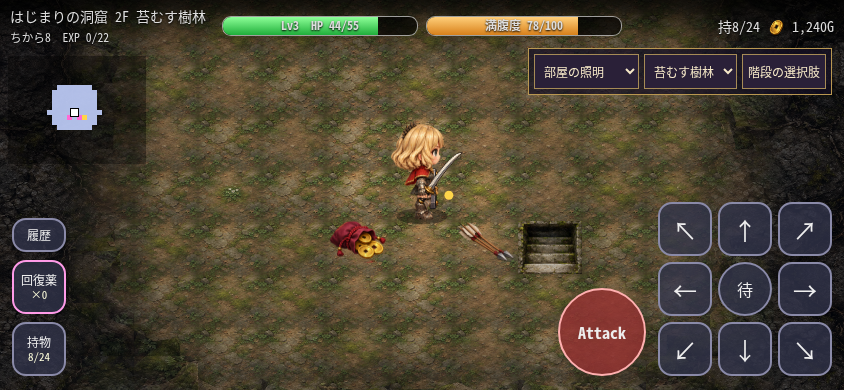
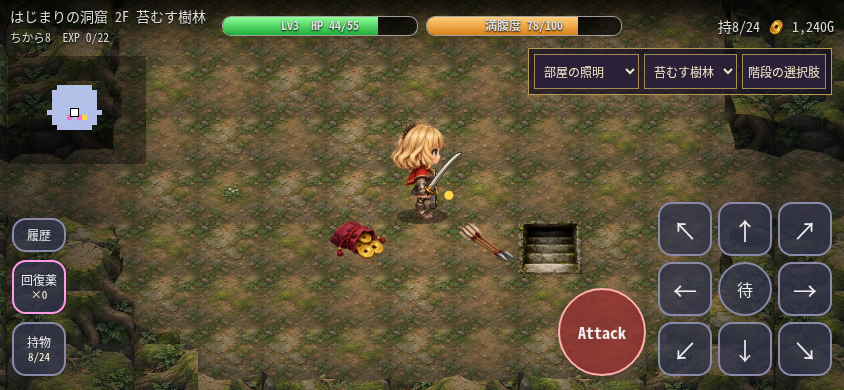
Keep unvisited rooms and corridors visible in shadow, raise walls and fix public item sprites

diff --git a/assets/cave-terrain.js b/assets/cave-terrain.js
@@ -6,7 +6,7 @@
  const keys=['floor0','floor1','floor2','floor3','wallT0','wallT1','wallF0','wallF1','stairs'];
  state.load=async function(redraw){try{await Promise.all(ids.flatMap(id=>keys.map(key=>new Promise((resolve,reject)=>{const im=new Image();im.crossOrigin='anonymous';im.onload=()=>{images[id+':'+key]=im;resolve();};im.onerror=()=>reject(Error(id+'/'+key));im.src='assets/dungeon/locations-v1/'+id+'/'+key+'.webp';}))));state.ready=true;redraw();}catch(e){state.error=e.message;console.error('ロケーション画像読込失敗',e);redraw();}};
  state.topology=function(map,x,y){const f=(xx,yy)=>map[yy]?.[xx]!==undefined&&map[yy][xx]!==0;let edges=0,diagonals=0;[[0,-1],[1,0],[0,1],[-1,0]].forEach(([dx,dy],i)=>{if(f(x+dx,y+dy))edges|=1<<i;});[[-1,-1],[1,-1],[1,1],[-1,1]].forEach(([dx,dy],i)=>{if(f(x+dx,y+dy))diagonals|=1<<i;});return {edges,diagonals};};
- state.rise=(map,x,y,size)=>size*((state.topology(map,x,y).edges&1)?.10:.36);
+ state.rise=(map,x,y,size)=>size*((state.topology(map,x,y).edges&1)?.22:.55);
  function canvas(w=SIZE,h=SIZE){const c=document.createElement('canvas');c.width=w;c.height=h;return c;}
  function art(id,key){return images[id+':'+key];}
  function patch(id,key){const k=id+':patch:'+key;if(cache.has(k))return cache.get(k);const c=canvas(),g=c.getContext('2d');g.drawImage(art(id,key),0,0,SIZE,SIZE);g.globalCompositeOperation='destination-in';const r=g.createRadialGradient(64,64,18,64,64,62);r.addColorStop(0,'#000');r.addColorStop(1,'#0000');g.fillStyle=r;g.fillRect(0,0,SIZE,SIZE);cache.set(k,c);return c;}
@@ -42,27 +42,30 @@
   const {edges,diagonals}=state.topology(map,x,y);
   // Neighbour-owned radii depend on world coordinates, not just topology.
   const k=[id,x,y,seed,edges,diagonals,variant].join(':');if(cache.has(k))return cache.get(k);
-  const rise=(edges&1)?13:46,p=105,c=canvas(128,160),g=c.getContext('2d');
+  const rise=(edges&1)?28:70,p=105,c=canvas(128,184),g=c.getContext('2d');
   const footprint=state.footprint(map,x,y,seed,id),top=canvas(128,p),tg=top.getContext('2d');
   tg.drawImage(footprint,0,0,128,p);
   // Extrude the actual scalloped footprint. A rectangular facade would fill
   // the negative space back in and undo the partial-cell silhouette.
-  const face=canvas(128,160),fg=face.getContext('2d');
-  for(let z=rise;z>=0;z--)fg.drawImage(top,0,46-z);
-  fg.globalCompositeOperation='destination-out';fg.drawImage(top,0,46-rise);
+  const face=canvas(128,184),fg=face.getContext('2d');
+  for(let z=rise;z>=0;z--)fg.drawImage(top,0,70-z);
+  fg.globalCompositeOperation='destination-out';fg.drawImage(top,0,70-rise);
   fg.globalCompositeOperation='source-in';
-  fg.drawImage(art(id,'wallF'+variant),phaseX*128,0,128,256,0,0,128,160);
+  fg.drawImage(art(id,'wallF'+variant),phaseX*128,0,128,256,0,0,128,184);
+  // Darker vertical faces distinguish raised rock from the walkable floor.
+  fg.globalCompositeOperation='source-atop';
+  const shadow=fg.createLinearGradient(0,0,0,184);shadow.addColorStop(0,'rgba(0,0,0,.12)');shadow.addColorStop(1,'rgba(0,0,0,.55)');fg.fillStyle=shadow;fg.fillRect(0,0,128,184);
   g.drawImage(face,0,0);
   const cap=canvas(128,p),cg=cap.getContext('2d');
   cg.drawImage(art(id,'wallT'+variant),phaseX*128,phaseY*64,128,128,0,0,128,p);
   cg.globalCompositeOperation='destination-in';cg.drawImage(top,0,0);
-  g.drawImage(cap,0,46-rise);
+  g.drawImage(cap,0,70-rise);
   if(cache.size>512)cache.clear();cache.set(k,c);return c;
  }
  state.draw=function(g,key,px,py,size,{map,x=0,y=0,theme,seed=0}){if(!state.ready)return false;const id=ids.includes(theme?.id)?theme.id:'limestone',h=size*PITCH;g.imageSmoothingEnabled=true;
   if(key.startsWith('floor')){const hash=(((x*73856093)^(y*19349663)^seed)>>>0),v=hash%31===0?3:hash%3;ground(g,px,py,size,h,id,x,y,v);return true;}
   if(key==='stairs'){ground(g,px,py,size,h,id,x,y,1);g.drawImage(patch(id,'stairs'),px,py,size,h);return true;}
-  if(key!=='wallF'&&key!=='wallT')return false;const {edges,diagonals}=state.topology(map,x,y);ground(g,px,py,size,h,id,x,y,1);const v=(((x>>1)*37^(y>>1)*71^seed)>>>0)&1;g.drawImage(bank(id,map,x,y,seed,v,x&1,y&1),px,py-size*46/128,size,size*160/128);return true;
+  if(key!=='wallF'&&key!=='wallT')return false;const {edges,diagonals}=state.topology(map,x,y);ground(g,px,py,size,h,id,x,y,1);const v=(((x>>1)*37^(y>>1)*71^seed)>>>0)&1;g.drawImage(bank(id,map,x,y,seed,v,x&1,y&1),px,py-size*70/128,size,size*184/128);return true;
  };
  root.CaveTerrain=state;
 })(typeof window==='undefined'?globalThis:window);

diff --git a/assets/dungeon-experience.js b/assets/dungeon-experience.js
@@ -12,8 +12,7 @@
  state.trap=function(g,kind,x,y,size,pitch){const im=state.images['trap-'+kind];if(!im)return false;g.imageSmoothingEnabled=true;g.drawImage(im,x+size*.03,y-pitch*.10,size*.94,pitch*1.04);return true;};
  state.shop=function(g,x,y,size,pitch){const im=state.images.shop;if(!im)return false;g.imageSmoothingEnabled=true;g.drawImage(im,x-size*.10,y-pitch*.65,size*1.2,size*1.2);return true;};
  function layer(name,w,h){let c=state.layers[name];if(!c)c=state.layers[name]=document.createElement('canvas');if(c.width!==w||c.height!==h){c.width=w;c.height=h;}const g=c.getContext('2d');g.clearRect(0,0,w,h);g.globalCompositeOperation='source-over';g.globalAlpha=1;g.filter='none';return [c,g];}
- // The ceiling is material, not an opaque black unknown-cell rectangle. Draw it
- // over hidden routes; illumination reveals the real floor through a soft mask.
+ // Terrain remains visible under ambient shadow outside the soft local light.
  state.fog=function(g,{width,height,size,pitch,camX,camY,player,rooms,roomIndex,roomGrid,map,seen,theme,terrain,revision=0,seed=0}){
   const cacheKey=[width,height,size,pitch,camX,camY,player.vx,player.vy,roomIndex,player.st?.blind>0,theme,state.ready,revision,seed].join(':');
   if(state.fogKey===cacheKey){g.drawImage(state.layers.ceiling,0,0);g.drawImage(state.layers.shade,0,0);return;}
@@ -31,10 +30,11 @@
    }
   }
   cg.fillStyle='rgba(8,11,18,.18)';cg.fillRect(0,0,width,height);
-  // Previously explored routes remain a dim recollection, with soft boundaries.
-  rg.filter='blur('+Math.max(3,size*.16)+'px)';rg.fillStyle='rgba(255,255,255,.32)';
-  for(let y=Math.max(0,y0);y<Math.min(seen.length,y1+1);y++)for(let x=Math.max(0,x0);x<Math.min(seen[y].length,x1+1);x++)if(seen[y][x])rg.fillRect(camX+x*size,camY+y*pitch,size+1,pitch+1);
-  rg.filter='none';
+  // Actual room/corridor geometry is already rendered, even when unvisited.
+  // Ceiling material fills only the area beyond the map; never cover its floors.
+  cg.globalCompositeOperation='destination-out';cg.fillStyle='#fff';
+  cg.fillRect(camX,camY-size,map[0].length*size,map.length*pitch+size);
+  cg.globalCompositeOperation='source-over';
   const blind=player.st?.blind>0;
   if(roomIndex>=0&&!blind){
    const r=rooms[roomIndex];lg.filter='blur('+Math.max(12,size*.58)+'px)';lg.fillStyle='#fff';
@@ -44,8 +44,8 @@
   }
   const px=camX+(player.vx+.5)*size,py=camY+(player.vy+.6)*pitch,radius=size*(blind?.70:2.05);
   const glow=lg.createRadialGradient(px,py,size*.30,px,py,radius);glow.addColorStop(0,'#fff');glow.addColorStop(.40,'rgba(255,255,255,.95)');glow.addColorStop(.72,'rgba(255,255,255,.5)');glow.addColorStop(1,'rgba(255,255,255,0)');lg.fillStyle=glow;lg.fillRect(0,0,width,height);
-  rg.drawImage(light,0,0);cg.globalCompositeOperation='destination-out';cg.drawImage(reveal,0,0);cg.globalCompositeOperation='source-over';g.drawImage(ceiling,0,0);
-  sg.fillStyle='rgba(2,5,12,.62)';sg.fillRect(0,0,width,height);sg.globalCompositeOperation='destination-out';sg.drawImage(light,0,0);sg.globalCompositeOperation='source-over';g.drawImage(shade,0,0);
+  g.drawImage(ceiling,0,0);
+  sg.fillStyle='rgba(2,5,12,.52)';sg.fillRect(0,0,width,height);sg.globalCompositeOperation='destination-out';sg.drawImage(light,0,0);sg.globalCompositeOperation='source-over';g.drawImage(shade,0,0);
  };
  root.DungeonExperience=state;
 })(typeof window==='undefined'?globalThis:window);

diff --git a/fushigi-experience-v1/review.html b/fushigi-experience-v1/review.html
@@ -828,6 +828,7 @@ function keyOut(im) {
 }
 function loadSprite(key, src) {
   const im = new Image();
+  im.crossOrigin = 'anonymous';
   im.onload = () => { try { SPRITES[key] = keyOut(im); kick(); } catch (e) { console.warn('画像を処理できませんでした:', key, e); } };
   im.onerror = () => {};
   im.src = src;

diff --git a/index.html b/index.html
@@ -827,6 +827,7 @@ function keyOut(im) {
 }
 function loadSprite(key, src) {
   const im = new Image();
+  im.crossOrigin = 'anonymous';
   im.onload = () => { try { SPRITES[key] = keyOut(im); kick(); } catch (e) { console.warn('画像を処理できませんでした:', key, e); } };
   im.onerror = () => {};
   im.src = src;

diff --git a/fushigi-experience-v1/check.py b/fushigi-experience-v1/check.py
@@ -20,14 +20,11 @@ with sync_playwright() as p:
    const alpha=(xx,yy)=>g.getImageData(Math.round(xx),Math.round(yy),1,1).data[3];
    const center=alpha(x,y),axis=alpha(x+r*.85,y),corner=alpha(x+r*.85,y+r*.85);
    if(!(center>240&&axis>0&&axis<200&&corner===0))throw Error('circular feather failed '+[center,axis,corner]);
-   const cg=DungeonExperience.layers.ceiling.getContext('2d'),data=cg.getImageData(2,2,Math.min(40,innerWidth-2),40).data;let sum=0,min=255,max=0;
-   for(let i=0;i<data.length;i+=4){const v=(data[i]+data[i+1]+data[i+2])/3;sum+=v;min=Math.min(min,v);max=Math.max(max,v);}
-   if(!(sum/(data.length/4)>6&&max-min>5))throw Error('ceiling must be textured not black');
-   return {centerAlpha:center,edgeAlpha:axis,diagonalAlpha:corner,ceilingMean:sum/(data.length/4),ceilingRange:max-min};
+   return {centerAlpha:center,edgeAlpha:axis,diagonalAlpha:corner};
   }''')
-  # A hidden floor must be concealed by opaque ceiling, not reveal its route.
-  hidden=page.evaluate('''()=>{const tx=player.x+Math.floor(innerWidth/2/TS)-1,ty=player.y;const px=innerWidth/2+(tx-player.x)*TS,py=focusY();const read=()=>Array.from(ctx.getImageData(Math.round(px),Math.round(py),3,3).data);draw();const a=read();map[ty][tx]=map[ty][tx]===WALL?FLOOR:WALL;draw();const z=read();return a.every((v,i)=>v===z[i]);}''')
-  assert hidden,'unknown floor leaked through ceiling'
+  # Unvisited terrain remains geometrically legible under ambient shadow.
+  hidden=page.evaluate('''()=>{const tx=player.x+Math.floor(innerWidth/2/TS)-1,ty=player.y;const px=innerWidth/2+(tx-player.x)*TS,py=focusY();const read=()=>Array.from(ctx.getImageData(Math.round(px),Math.round(py),3,3).data);draw();const a=read();map[ty][tx]=map[ty][tx]===WALL?FLOOR:WALL;CaveTerrain.cache.clear();visibilityRevision++;draw();const z=read();return a.some((v,i)=>v!==z[i]);}''')
+  assert hidden,'unvisited terrain must retain room/corridor geometry'
   stairs=page.evaluate('''()=>{const c=document.createElement('canvas');c.width=c.height=64;const g=c.getContext('2d');let tiles=0;for(const id of ['forest','limestone','ruins','ice','volcano']){g.clearRect(0,0,64,64);if(!DungeonExperience.stairs(g,0,0,64,64,id))throw Error(id);const d=g.getImageData(0,0,64,64).data;for(const i of [3,63*4+3,63*64*4+3,64*64*4-1])if(d[i]!==255)throw Error('stair corner not full tile');tiles++;}return tiles;}''')
   assert stairs==5
   page.evaluate("ExperienceReview.setup('stairs');player.x=player.vx=13;player.y=player.vy=11;playerMove(1,0)")
@@ -45,7 +42,7 @@ with sync_playwright() as p:
   page.locator('#bagClose').click();assert not page.evaluate('bagOpen')
   assert page.evaluate('document.documentElement.scrollWidth <= innerWidth')
   assert not errors and not missing,(errors,missing)
-  report['viewports'].append({'label':label,'size':[w,h],'lighting':lighting,'hiddenRouteConcealed':hidden,'fullTileStairs':stairs,'stairsStayAndDescend':True,'keyboardAndTouchMenu':True,'errors':errors,'missing':missing});page.close()
+  report['viewports'].append({'label':label,'size':[w,h],'lighting':lighting,'unvisitedTerrainVisible':hidden,'fullTileStairs':stairs,'stairsStayAndDescend':True,'keyboardAndTouchMenu':True,'errors':errors,'missing':missing});page.close()
  b.close()
 (P/'validation.json').write_text(json.dumps(report,ensure_ascii=False,indent=2)+'\n')
-print('OK: 3 viewports, 5 scenes, 5 full-tile stair themes, soft circular light and textured hidden ceiling, hidden-route concealment, stair choices, keyboard/touch inventory, no missing assets.')
+print('OK: 3 viewports, 5 scenes, 5 full-tile stair themes, soft circular light and ambient unvisited terrain, raised walls, stair choices, keyboard/touch inventory, no missing assets.')

diff --git a/fushigi-experience-v1/check_public.py b/fushigi-experience-v1/check_public.py
@@ -1,0 +1,18 @@
+"""Verify processed item sprites on the actual public preview, including redirects."""
+import sys
+from playwright.sync_api import sync_playwright
+with sync_playwright() as p:
+ b=p.chromium.launch(executable_path='/usr/bin/chromium',args=['--no-sandbox'])
+ page=b.new_page(viewport={'width':844,'height':390});errors=[]
+ page.on('pageerror',lambda e:errors.append(str(e)))
+ page.goto(sys.argv[1],timeout=60000)
+ if page.get_by_text('Open the page',exact=False).count():page.get_by_text('Open the page',exact=False).first.click()
+ page.wait_for_function('window.ExperienceReview && DungeonExperience.ready && CaveTerrain.ready && scene==="dungeon" && SPRITES.gold && SPRITES.arrow',timeout=60000)
+ result=page.evaluate('''()=>{
+  ExperienceReview.setup('traps');draw();
+  const icons={};for(const k of ['gold','arrow']){const s=SPRITES[k],d=s.getContext('2d').getImageData(0,0,s.width,s.height).data;let n=0;for(let i=3;i<d.length;i+=4)if(d[i]>0)n++;if(n<100)throw Error(k+' blank');icons[k]={width:s.width,paintedPixels:n};}
+  ExperienceReview.setup('corridor');draw();const c=DungeonExperience.layers.ceiling;if(c.getContext('2d').getImageData(innerWidth/2,focusY(),1,1).data[3]!==0)throw Error('ceiling covers terrain');return icons;
+ }''')
+ assert not errors,errors
+ print('PUBLIC OK: processed item sprites, uncovered terrain, no page errors',result)
+ b.close()

diff --git a/fushigi-experience-v1/README.md b/fushigi-experience-v1/README.md
@@ -11,11 +11,11 @@
 - 階段は5テーマの不透明な全マス素材。踏む行動は1ターン、選択そのものは追加ターンなし。そのまま留まり、後で再度選ぶことも可能。
 - 持ち物は透過する一覧と説明・操作。矢印で選択→Enterで操作選択→Enterで実行。Escは操作から一覧、一覧からゲームへ戻る。タップも対応。選択中はターン停止。
 - ダンジョンで空振りして1ターン進め、正面の隠し罠を発見する。町では攻撃不可。
-- 部屋は実際の輪郭をぼかし、通路は主人公中心の円形光。未探索には天井の岩素材を重ね、道の形が漏れない。既知の道は暗く残す。描画マスクを再利用する。
+- 部屋は実際の輪郭をぼかし、通路は主人公中心の円形光。未踏の部屋・通路も実際の地形を暗がりに描写する。壁の高さ・側面陰影を強め、床と区別する。描画マスクを再利用する。
 
 ## 原画と再現
 
-`source-art/` に画像生成原画4枚、`generation-record.json` に生成記録。`build.py` が透過画像の切り出し・共通枠登録、全マス素材の切り出しを行い、`assets.json` にハッシュを記録。天井は大きな素材を鏡面接続して境界を連続させる。キャラや装備は反転していない。
+`source-art/` に画像生成原画4枚、`generation-record.json` に生成記録。`build.py` が透過画像の切り出し・共通枠登録、全マス素材の切り出しを行い、`assets.json` にハッシュを記録。マップ外は天井素材で埋める。キャラや装備は反転していない。
 
 ```sh
 python fushigi-experience-v1/build.py
@@ -27,4 +27,4 @@ node tests/harness.js index.html tests/test_experience.js
 node tests/harness.js index.html tests/test_mvp.js
 ```
 
-実ブラウザは844×390、390×844、1280×720の5シーン、5階段テーマ、円形のぼかし、天井の模様、不可視ルートの遮蔽、階段選択、キー／タップ操作を検証。`validation.json` と各PNGを保存。既存の主人公モーション・200階生成の検証も成功。見た目はユーザー確認前の初版。ダンジョンのさらなる美術調整は今後の範囲。
+実ブラウザは844×390、390×844、1280×720の5シーン、5階段テーマ、円形のぼかし、天井の模様、未踏の地形の描写、階段選択、キー／タップ操作を検証。`validation.json` と各PNGを保存。既存の主人公モーション・200階生成の検証も成功。見た目はユーザー確認前の初版。ダンジョンのさらなる美術調整は今後の範囲。

diff --git a/docs/SPRITE_PRODUCTION_HANDOVER.md b/docs/SPRITE_PRODUCTION_HANDOVER.md
@@ -1,5 +1,10 @@
 # 承認済みキャラクター・武器・盾の制作引き継ぎ
 
+## 最新修正：暗所の地形・壁の高さ・アイコン（2026-10-21）
+
+ユーザー確認を受けPR #7を修正。ライト外の全領域を天井で覆う方式は撤回し、未踏の部屋・通路も実際の地形を暗く描画する。ミニマップ／敵／未発見の罠は従来の可視判定。壁は部分占有の輪郭を維持し、通常高さ0.36→0.55マス、手前側0.10→0.22マスと側面陰影を強化。ギタン・矢を含む画像は匿名CORSで読み込み、公開配信先での転送後も透過処理を行えるよう修正。以下の「未探索を天井で遮蔽」は旧仕様。
+
+
 ## 最新：道具・罠・階段・操作・視界（2026-10-21）
 
 ユーザーの「OK、反映」によりモンスターPR #6はmainへマージ済み（7501a36）。髪なしゴブリン・スライム・コウモリの歩行／攻撃を採用。以下の「PR #6未マージ」「顔の承認待ち」は過去の記録。

diff --git a/docs/HANDOVER.md b/docs/HANDOVER.md
@@ -1,5 +1,10 @@
 # 引き継ぎ資料（Fushigi：シレン風・個人用）
 
+## 最新修正：暗所の地形・壁の高さ・アイコン（2026-10-21）
+
+ユーザー確認を受けPR #7を修正。ライト外の全領域を天井で覆う方式は撤回し、未踏の部屋・通路も実際の地形を暗く描画する。ミニマップ／敵／未発見の罠は従来の可視判定。壁は部分占有の輪郭を維持し、通常高さ0.36→0.55マス、手前側0.10→0.22マスと側面陰影を強化。ギタン・矢を含む画像は匿名CORSで読み込み、公開配信先での転送後も透過処理を行えるよう修正。以下の「未探索を天井で遮蔽」は旧仕様。
+
+
 ## 最新：道具・罠・階段・操作・視界（2026-10-21）
 
 ユーザーの「OK、反映」によりモンスターPR #6はmainへマージ済み（7501a36）。髪なしゴブリン・スライム・コウモリの歩行／攻撃を採用。以下の「PR #6未マージ」「顔の承認待ち」は過去の記録。
